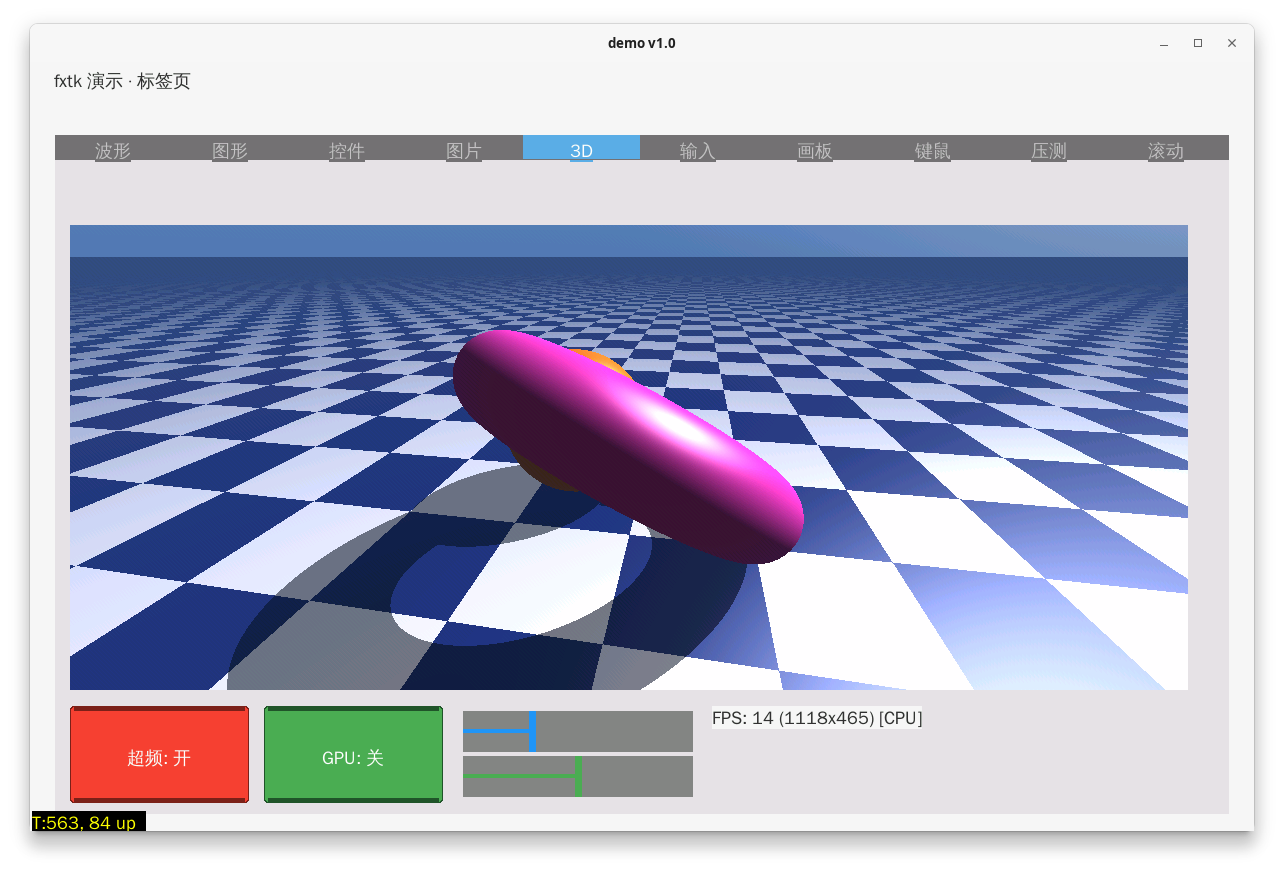
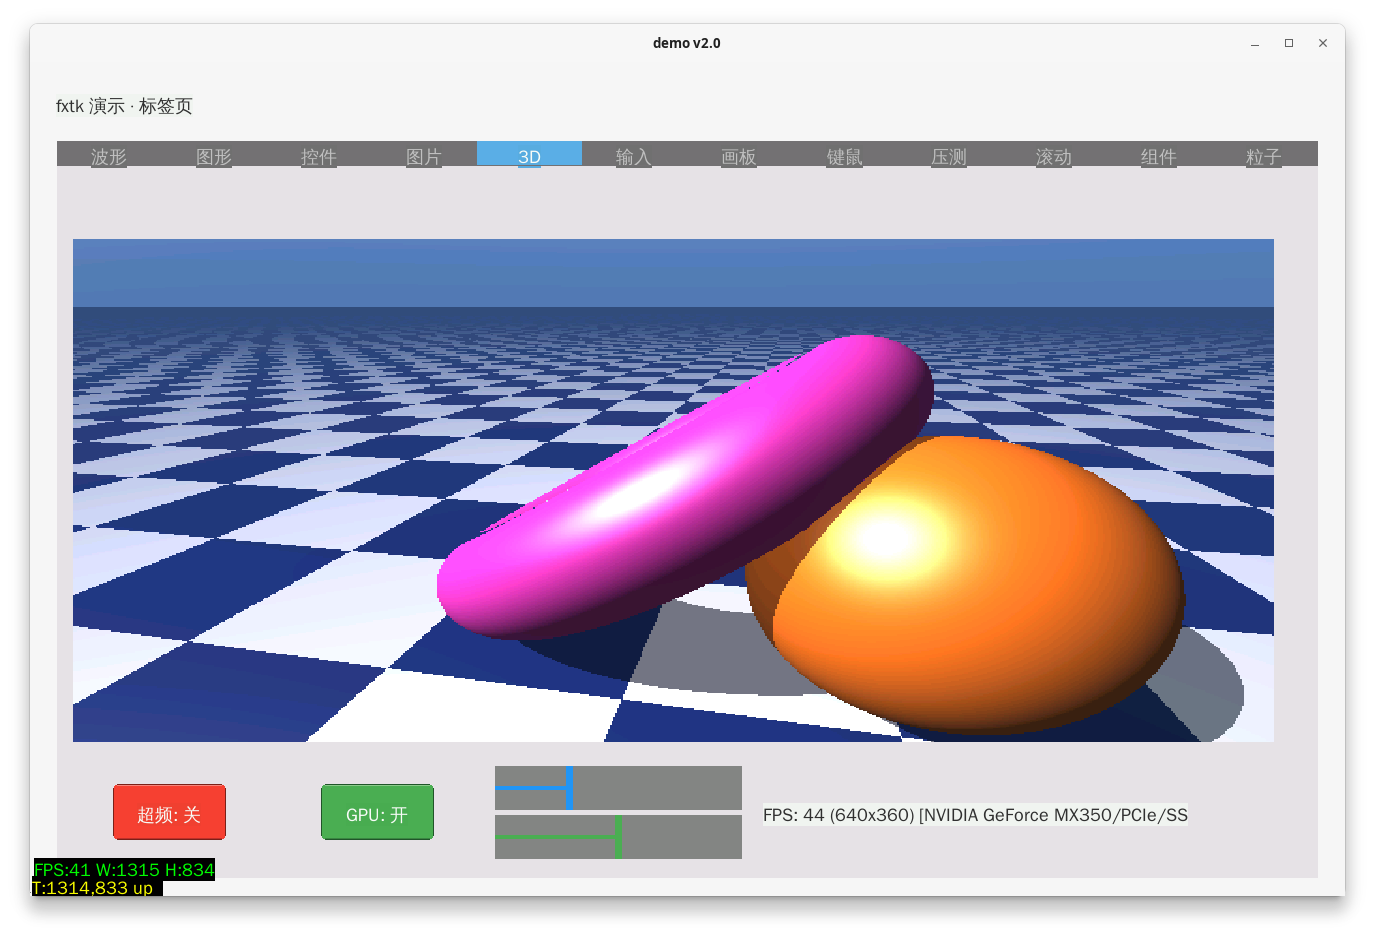
2.0完整更新
现在已支持gpu

diff --git a/linux_sim/app.c b/linux_sim/app.c
@@ -1,3 +1,5 @@
+#include <stdlib.h>
+#include <stdlib.h>
 /**
  * app.c — fxtk 综合演示 (5 页: 波形/动效/控件/图片/3D光追)
  */
@@ -159,8 +161,8 @@ static void on_3d(fx_widget_t *w, void *ud) {
     int x1, y1, x2, y2;
     fx_widget_rect(w, &x1, &y1, &x2, &y2);
     int cw = x2 - x1 + 1, ch = y2 - y1 + 1;
-    int rw = s_oc ? cw : 320;
-    int rh = s_oc ? ch : 180;
+    int rw = s_oc ? cw : (cw > 640 ? 640 : cw);
+    int rh = s_oc ? ch : (ch > 360 ? 360 : ch);
     if (rw < 16) rw = 16; if (rh < 16) rh = 16;
     if (!s_rt || s_rt->w != rw || s_rt->h != rh) {
         if (s_rt) fx_image_free(s_rt);
@@ -173,6 +175,7 @@ static void on_3d(fx_widget_t *w, void *ud) {
     } else {
         raymarch_render(s_rt->px, rw, rh, s_rt_time, 24 + s_rqual);
     }
+    fx_set_color(FX_BLACK); fx_fill_rect(0, 0, cw - 1, ch - 1);
     fx_draw_image(s_rt, 0, 0, cw, ch);
     s_rt_time += 0.016f * (0.3f + s_rspeed * 0.06f);
 
@@ -239,6 +242,7 @@ static void build_ui(void) {
 
     /* 页5: 3D 光线步进 */
     fx_canvas_new(pixel("6,32", "444,196"), name("rt_cv"), page(4), anim(1), color(FX_BLACK), call(on_3d));
+    fx_canvas_set_buf(fx_find("rt_cv"), 0);   /* 3D 直绘, 放大不空白 */
     fx_canvas_new(pixel("6,32", "444,196"), name("pt_cv"), page(11), anim(1), color(FX_BLACK), call(on_pt));
     fx_slider_new(pixel("6,204", "300,220"), page(11), call(on_pt_slider));
     fx_label_new(pixel("306,204", "444,220"), page(11), title("拖动调粒子数(×200)"), fgcolor(FX_RGB(51, 51, 51)));
@@ -342,7 +346,7 @@ void app_init(void) {
     build_ui();
     /* v2 perf: 波形每帧全量重画, 去离屏缓冲走GPU批 */ ////fx_canvas_enable_buf(fx_find("wave_cv"));  /* v2 perf: 每帧全量重画, 走GPU批 */
     /* v2 perf: 图形同理 */ ////fx_canvas_enable_buf(fx_find("gfx_cv"));  /* v2 perf: 同上 */
-    fx_canvas_enable_buf(fx_find("rt_cv"));
+    /* fx_canvas_enable_buf(fx_find("rt_cv")); */   /* 3D 永久直绘, 大小窗口统一 */
     fx_canvas_new(pixel("0,271", "0,271"), name("fixer"), anim(1),
                   color(FX_RGB(240,240,240)), call(on_fix));
 }

diff --git a/examples/ex05_scroll.c b/examples/ex05_scroll.c
@@ -1,27 +1,21 @@
-/** ex05_scroll — 画布自绘长列表 + 滚动条 */
+/** ex05_scroll — 画布自绘长列表 + 核心丝滑滚动 */
 #include "fxtk.h"
-#include "fxtk_desktop.h"
 #include <stdio.h>
-static int s_off = 0;
 static void on_view(fx_widget_t *w, void *ud) {
-    int x1, y1, x2, y2; fx_widget_rect(w, &x1, &y1, &x2, &y2);
-    int cw = x2 - x1 + 1, ch = y2 - y1 + 1;
-    int row = 36, total = 100 * row, maxs = total - ch; if (maxs < 0) maxs = 0;
-    s_off -= fx_wheel_take(w) * 24;
-    if (s_off < 0) s_off = 0; if (s_off > maxs) s_off = maxs;
-    fx_set_color(FX_WHITE); fx_fill_rect(0, 0, cw - 1, ch - 1);
-    for (int i = s_off / row; i < 100; i++) {
-        int y = i * row - s_off; if (y > ch) break;
-        if (i & 1) { fx_set_color(FX_RGB(225, 238, 252)); fx_fill_rect(0, y, cw - 1, y + row - 1); }
-        char t[32]; snprintf(t, sizeof(t), "第 %d 项", i + 1);
-        fx_draw_text_c(12, y + 9, t, FX_RGB(30, 30, 30), FX_WHITE);
+    int x1,y1,x2,y2; fx_widget_rect(w,&x1,&y1,&x2,&y2);
+    int cw=x2-x1+1,ch=y2-y1+1;
+    int row=36, total=100*row;
+    int off=fx_scroll_update(w,total);
+    fx_set_color(FX_WHITE); fx_fill_rect(0,0,cw-1,ch-1);
+    for(int i=off/row;i<100;i++){
+        int y=i*row-off; if(y>ch)break;
+        if(i&1){fx_set_color(FX_RGB(225,238,252)); fx_fill_rect(0,y,cw-1,y+row-1);}
+        char t[32]; snprintf(t,sizeof t,"第 %d 项",i+1);
+        fx_draw_text_c(12,y+9,t,FX_RGB(30,30,30),FX_WHITE);
     }
-    int th = ch * ch / total; if (th < 20) th = 20;
-    int ty = maxs > 0 ? (int)((long)s_off * (ch - th) / maxs) : 0;
-    fx_set_color(FX_GRAY); fx_fill_rect(cw - 5, 2, cw - 2, ch - 2);
-    fx_set_color(FX_RGB(33, 150, 243)); fx_fill_rect(cw - 5, 2 + ty, cw - 2, 2 + ty + th);
+    fx_scrollbar_draw(w,off,total);
 }
-void app_init(void) {
-    fx_set_bg(FX_RGB(240, 240, 240));
-    fx_canvas_new(pixel("10,10", "470,262"), anim(1), color(FX_WHITE), call(on_view));
+void app_init(void){
+    fx_set_bg(FX_RGB(240,240,240));
+    fx_canvas_new(pixel("10,10","470,262"), anim(1), color(FX_WHITE), call(on_view));
 }

diff --git a/components/fxtk/fxtk.c b/components/fxtk/fxtk.c
@@ -756,3 +756,39 @@ void fx_set_window_title(const char *s) { if (s_drv && s_drv->set_title) s_drv->
 static int s_grid_lines = 0;
 void fx_set_grid_lines(int on) { s_grid_lines = on; fx_repaint(); }
 int fxtk_grid_lines_on(void) { return s_grid_lines; }
+
+/* ---- 核心丝滑滚动: 像素级+惯性, 应用层一行调用 ---- */
+int fx_scroll_update(fx_widget_t *w, int content_h)
+{
+    if (!w) return 0;
+    int x1,y1,x2,y2; fx_widget_rect(w,&x1,&y1,&x2,&y2);
+    int ch=y2-y1+1; int maxs=content_h-ch; if(maxs<0)maxs=0;
+    static fx_widget_t *s_sw=0; static float s_soff=0,s_vel=0;
+    if(s_sw!=w){s_sw=w;s_soff=0;s_vel=0;}
+    int d=fx_wheel_take(w);
+    if(d) s_vel-=(float)d;   /* 轮上=内容上滚 */
+    s_soff+=s_vel; s_vel*=0.82f; if(s_vel>-0.5f&&s_vel<0.5f)s_vel=0;
+    if(s_soff<0)s_soff=0; if(s_soff>maxs)s_soff=(float)maxs;
+    return (int)s_soff;
+}
+void fx_scrollbar_draw(fx_widget_t *w,int off,int content_h)
+{
+    if(!w)return;
+    int x1,y1,x2,y2; fx_widget_rect(w,&x1,&y1,&x2,&y2);
+    int cw=x2-x1+1,ch=y2-y1+1; if(content_h<=ch)return;
+    int th=ch*ch/content_h; if(th<20)th=20;
+    int ty=(int)((long)off*(ch-th)/(content_h-ch));
+    fx_set_color(FX_GRAY); fx_fill_rect(cw-5,2,cw-2,ch-2);
+    fx_set_color(FX_RGB(33,150,243)); fx_fill_rect(cw-5,2+ty,cw-2,2+ty+th);
+}
+
+/* 画布离屏缓冲开关: 大画布/直绘场景关闭以避免放大合成问题 */
+void fx_canvas_set_buf(fx_widget_t *w, int on)
+{
+    if (!w || w->type != FX_W_CANVAS) return;
+    if (on) { fx_canvas_enable_buf(w); }
+    else {
+        if (w->offbuf) { free(w->offbuf); w->offbuf = 0; w->offw = w->offh = 0; }
+        w->flags &= (uint8_t)~FX_F_BUF;
+    }
+}

diff --git a/components/fxtk/fxtk_draw.c b/components/fxtk/fxtk_draw.c
@@ -115,6 +115,7 @@ void fxtk_off_begin(fx_widget_t *cv)
     int w = cv->x2 - cv->x1 + 1;
     int h = cv->y2 - cv->y1 + 1;
     if (w <= 0 || h <= 0) return;
+    if ((int64_t)w * h > 262144) { s_offing = 0; s_offbuf_active = NULL; return; }   /* 大画布直绘, 防放大空白 */
     /* 【缩放保护】控件尺寸变化时重分配离屏缓冲，防止堆溢出 */
     if (w != cv->offw || h != cv->offh) {
         free(cv->offbuf);
@@ -136,7 +137,7 @@ void fxtk_off_begin(fx_widget_t *cv)
 
 void fxtk_off_end(fx_widget_t *cv)
 {
-    if (!cv->offbuf) return;
+    if (!s_offbuf_active) return;
     s_drv->set_window((uint16_t)cv->x1, (uint16_t)cv->y1, (uint16_t)cv->x2, (uint16_t)cv->y2);
     s_drv->push_pixels(cv->offbuf, (uint32_t)(s_offw * s_offh));
     s_offbuf_active = NULL;

diff --git a/linux_sim/gpu_stub_win.c b/linux_sim/gpu_stub_win.c
@@ -1,6 +1,7 @@
-/* auto-generated Windows stub */
-#include <stdint.h>
-#include <stddef.h>
-int gpu_raymarch_ok(void) { return 0; }
-void gpu_raymarch_render(uint16_t *px, int w, int h, float time) {  }
-void *gpu_raymarch_renderer = 0;
+/* auto-generated Windows stub for GPU raymarch */
+#include "gpu_raymarch.h"
+
+void gpu_raymarch_start(void) { }
+int  gpu_raymarch_ok(void) { return 0; }
+const char *gpu_raymarch_renderer(void) { return "CPU Stub (Windows)"; }
+void gpu_raymarch_render(uint16_t *px, int w, int h, float time) { }

diff --git a/components/fxtk/fxtk.h b/components/fxtk/fxtk.h
@@ -227,6 +227,11 @@ fx_color_t fx_get_bg(void);
 #ifdef __cplusplus
 }
 #endif
+
+/* 核心丝滑滚动 */
+int  fx_scroll_update(fx_widget_t *w,int content_h);
+void fx_scrollbar_draw(fx_widget_t *w,int off,int content_h);
+void fx_canvas_set_buf(fx_widget_t *w,int on);
 #endif
 
 /* ---- extra: 多尺寸文字 / 列表 / 下拉 ---- */
